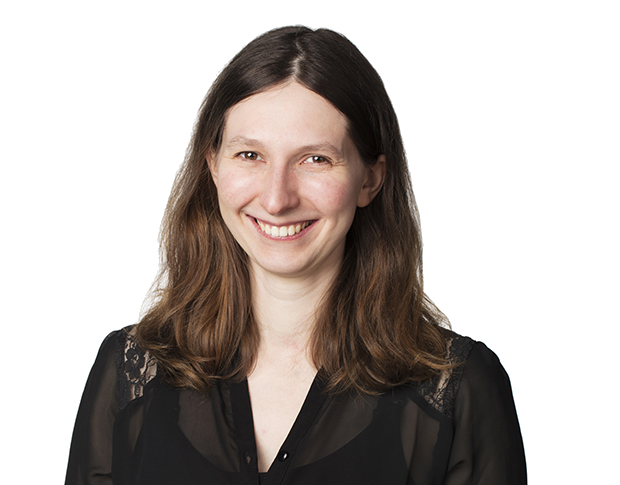
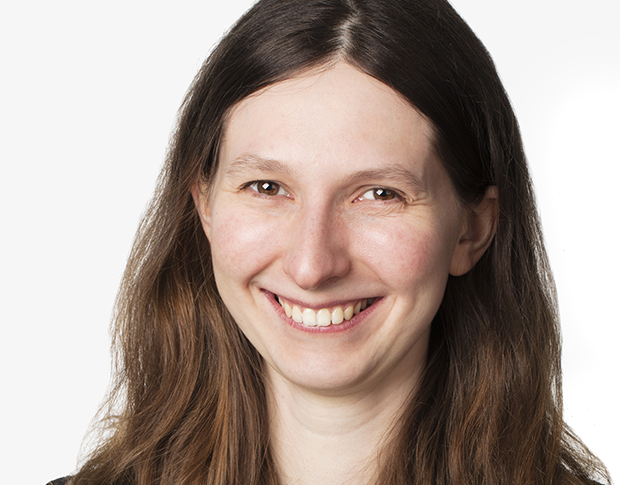
oppdatert bilder og beskrivelse - Olga

diff --git a/resources/index.md b/resources/index.md
@@ -9,9 +9,9 @@
 :class ref-top
 :body
 
-Kodemaker tok en idé til ferdig løsning på kort tid, og de har vært en viktig ekstern bidragsyter i utviklingen av vårt konsept [Oche](https://ochedart.com). De har jobbet godt sammen med flere andre aktører i et hektisk prosjekt. 
+Kodemaker tok en idé til ferdig løsning på kort tid, og de har vært en viktig ekstern bidragsyter i utviklingen av vårt konsept [Oche](https://ochedart.com). De har jobbet godt sammen med flere andre aktører i et hektisk prosjekt.
 
-De er flinke, sier hva de mener og lager det vi ønsker. Softwaren de har laget har fungert knirkefritt siden åpningen. Vi har et veldig godt inntrykk av hele Kodemaker, og de fremstår som en dyktig, jovial og humørfylt gjeng. [Les mer...](/referanser/oche-dart). 
+De er flinke, sier hva de mener og lager det vi ønsker. Softwaren de har laget har fungert knirkefritt siden åpningen. Vi har et veldig godt inntrykk av hele Kodemaker, og de fremstår som en dyktig, jovial og humørfylt gjeng. [Les mer...](/referanser/oche-dart).
 
 --------------------------------------------------------------------------------
 
@@ -27,11 +27,11 @@ De er flinke, sier hva de mener og lager det vi ønsker. Softwaren de har laget 
 :title Leder, system og masterdata NSB Persontog
 :body
 
-Kodemaker har vært sentrale i utviklingen av systemer for distribusjon av 
-trafikkinformasjon i NSB. Ved hjelp av dyktige konsulenter har vi funnet 
-effektive og brukervennlige løsninger på komplekse problemstillinger. 
-Konsulentene fra Kodemaker har bidratt med utallige råd og idéer som gjør oss 
-i stand til større grad av automatisering og presisjon i leveransen overfor 
+Kodemaker har vært sentrale i utviklingen av systemer for distribusjon av
+trafikkinformasjon i NSB. Ved hjelp av dyktige konsulenter har vi funnet
+effektive og brukervennlige løsninger på komplekse problemstillinger.
+Konsulentene fra Kodemaker har bidratt med utallige råd og idéer som gjør oss
+i stand til større grad av automatisering og presisjon i leveransen overfor
 våre kunder.
 
 --------------------------------------------------------------------------------
@@ -48,15 +48,15 @@ våre kunder.
 :title Chief Digital Officer, BN Bolig
 :body
 
-Kodemaker deltok med fullstackutviklere i et kryssfunksjonellt team hvor 
-de utviklet integrasjonsplattform og digital kundefront til BN Bolig. 
-Kodemaker er blant de faglig mest kompetente i bransjen, men det som kanskje 
-var aller viktigst for oss var at de med sin erfaring, engasjement og smidighet 
-dekket et stort spenn av tekniske behov/roller og at de på eget initiativ tok 
+Kodemaker deltok med fullstackutviklere i et kryssfunksjonellt team hvor
+de utviklet integrasjonsplattform og digital kundefront til BN Bolig.
+Kodemaker er blant de faglig mest kompetente i bransjen, men det som kanskje
+var aller viktigst for oss var at de med sin erfaring, engasjement og smidighet
+dekket et stort spenn av tekniske behov/roller og at de på eget initiativ tok
 tak i ideer og oppgaver.
 
-Vi var opptatt av å bygge et lite, agilt og selvorganisert team. Kodemaker har 
-for oss bevist at et lite team med håndplukkede, høykompetente personer kan 
+Vi var opptatt av å bygge et lite, agilt og selvorganisert team. Kodemaker har
+for oss bevist at et lite team med håndplukkede, høykompetente personer kan
 levere raskere og bedre.
 
 --------------------------------------------------------------------------------
@@ -125,9 +125,10 @@ utgangpunktet hadde ambisjoner om å få til.
 :type grid
 :content
 
+/olga/                            /photos/people/olga/side-profile-square.jpg
+/git/                              /photos/tech/git.svg
 /frode/                            /photos/people/frode/side-profile-square.jpg
 /nils/                             /photos/people/nils/side-profile-square.jpg
-/git/                              /photos/tech/git.svg
 /christin/                         /photos/people/christin/side-profile-square.jpg
 /javascript/                       /photos/tech/js.svg
 /eivind/                           /photos/people/eivind/side-profile-square.jpg
@@ -144,7 +145,7 @@ utgangpunktet hadde ambisjoner om å få til.
 /elm/                              /photos/tech/elm.svg
 /stig/                             /photos/people/stig/side-profile-square.jpg
 /anders/                           /photos/people/anders/side-profile-square.jpg
-/groovy/                           /photos/tech/groovy.png 2x
+/groovy/                           /photos/tech/groovy.png
 /kristian/                         /photos/people/kristian/side-profile-square.jpg
 /fredrik/                          /photos/people/fredrik/side-profile-square.jpg
 /gradle/                           /photos/tech/gradle.svg 2x
@@ -169,4 +170,3 @@ http://zombietdd.com               /photos/tech/ztdd.png
 
 --------------------------------------------------------------------------------
 :body
-
